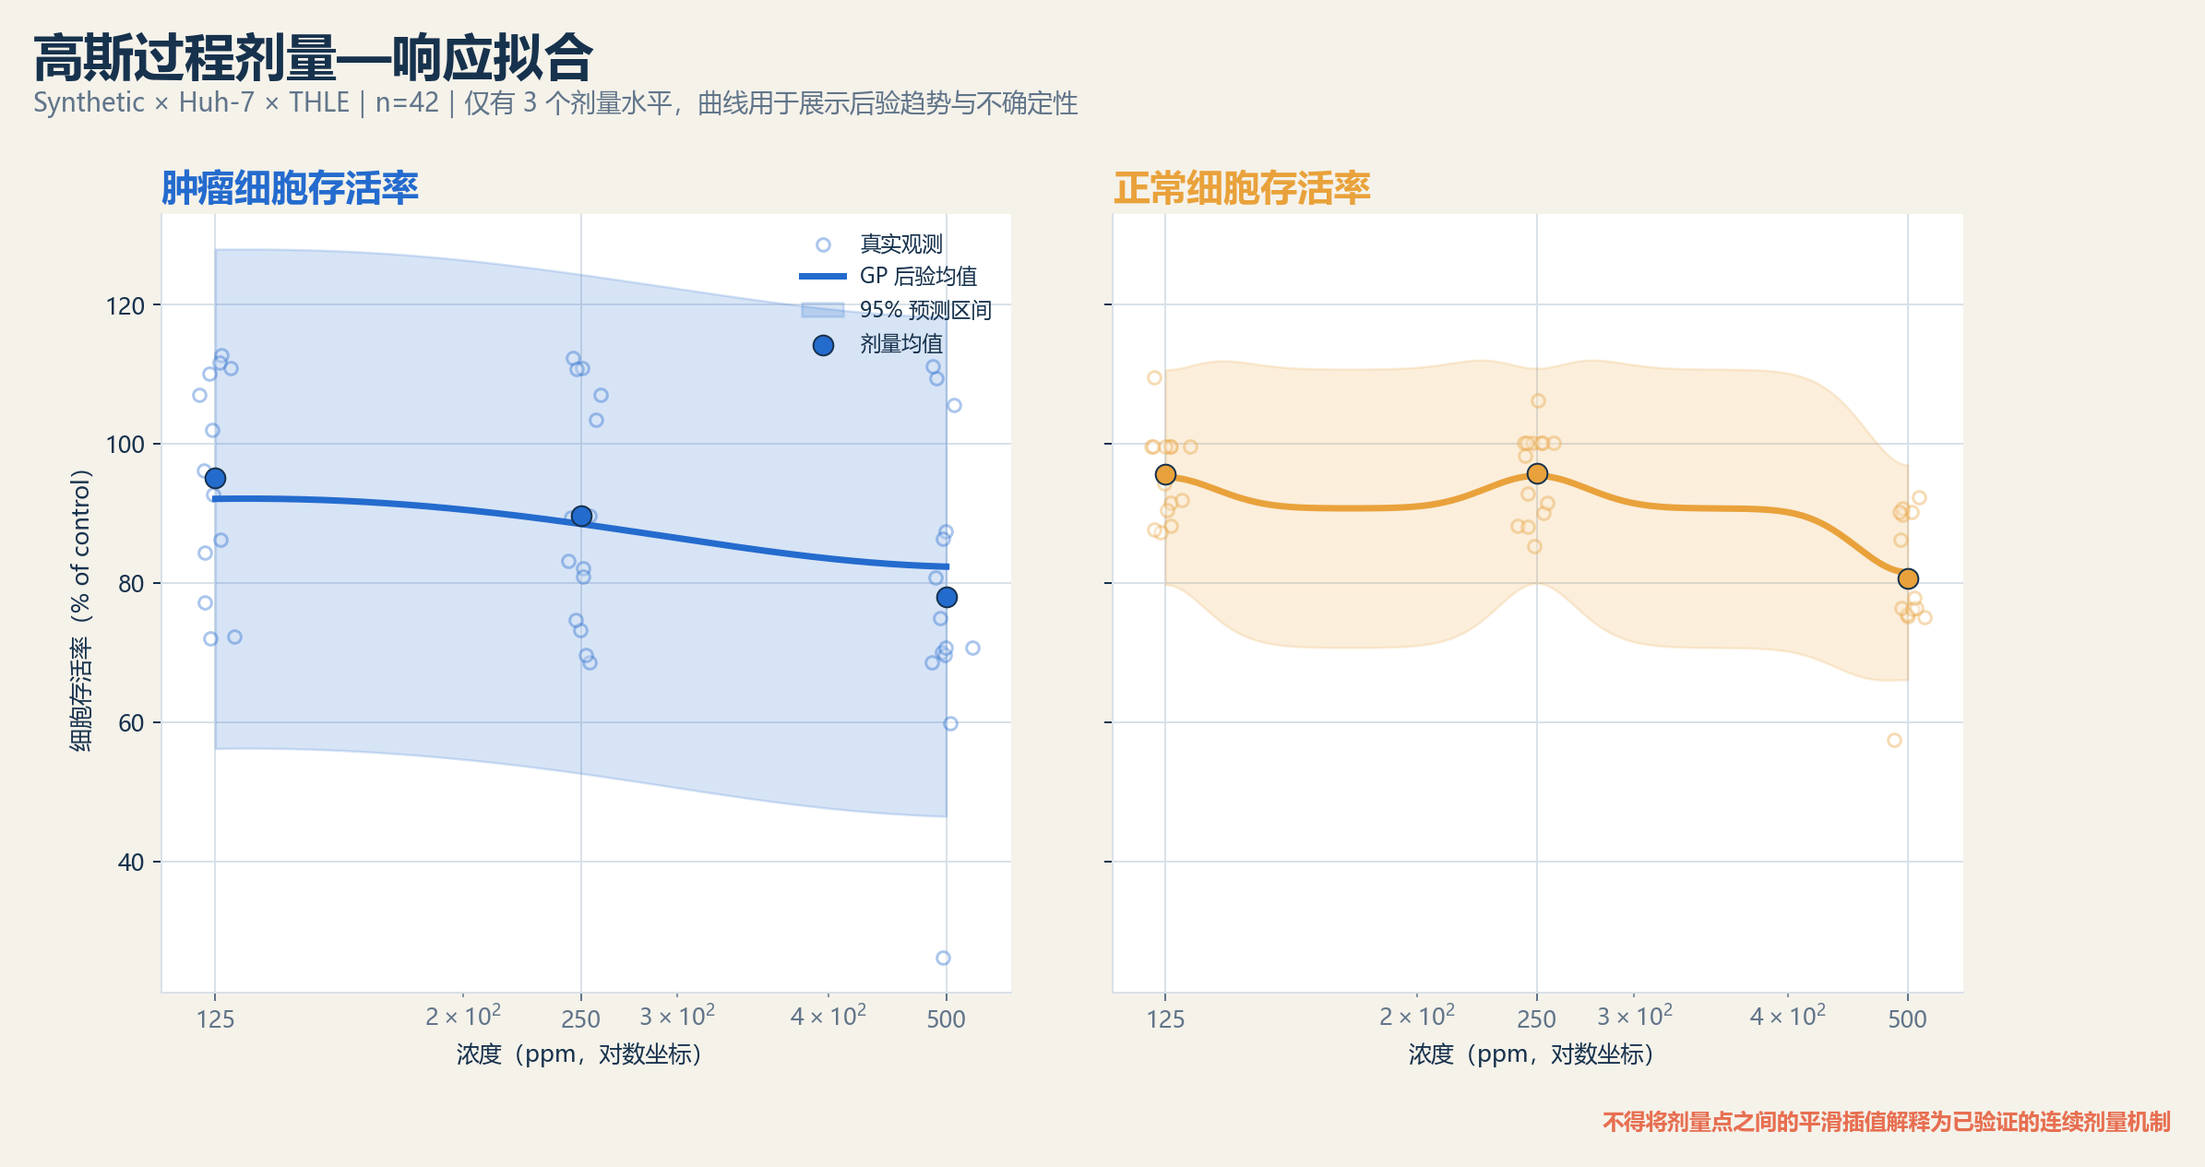
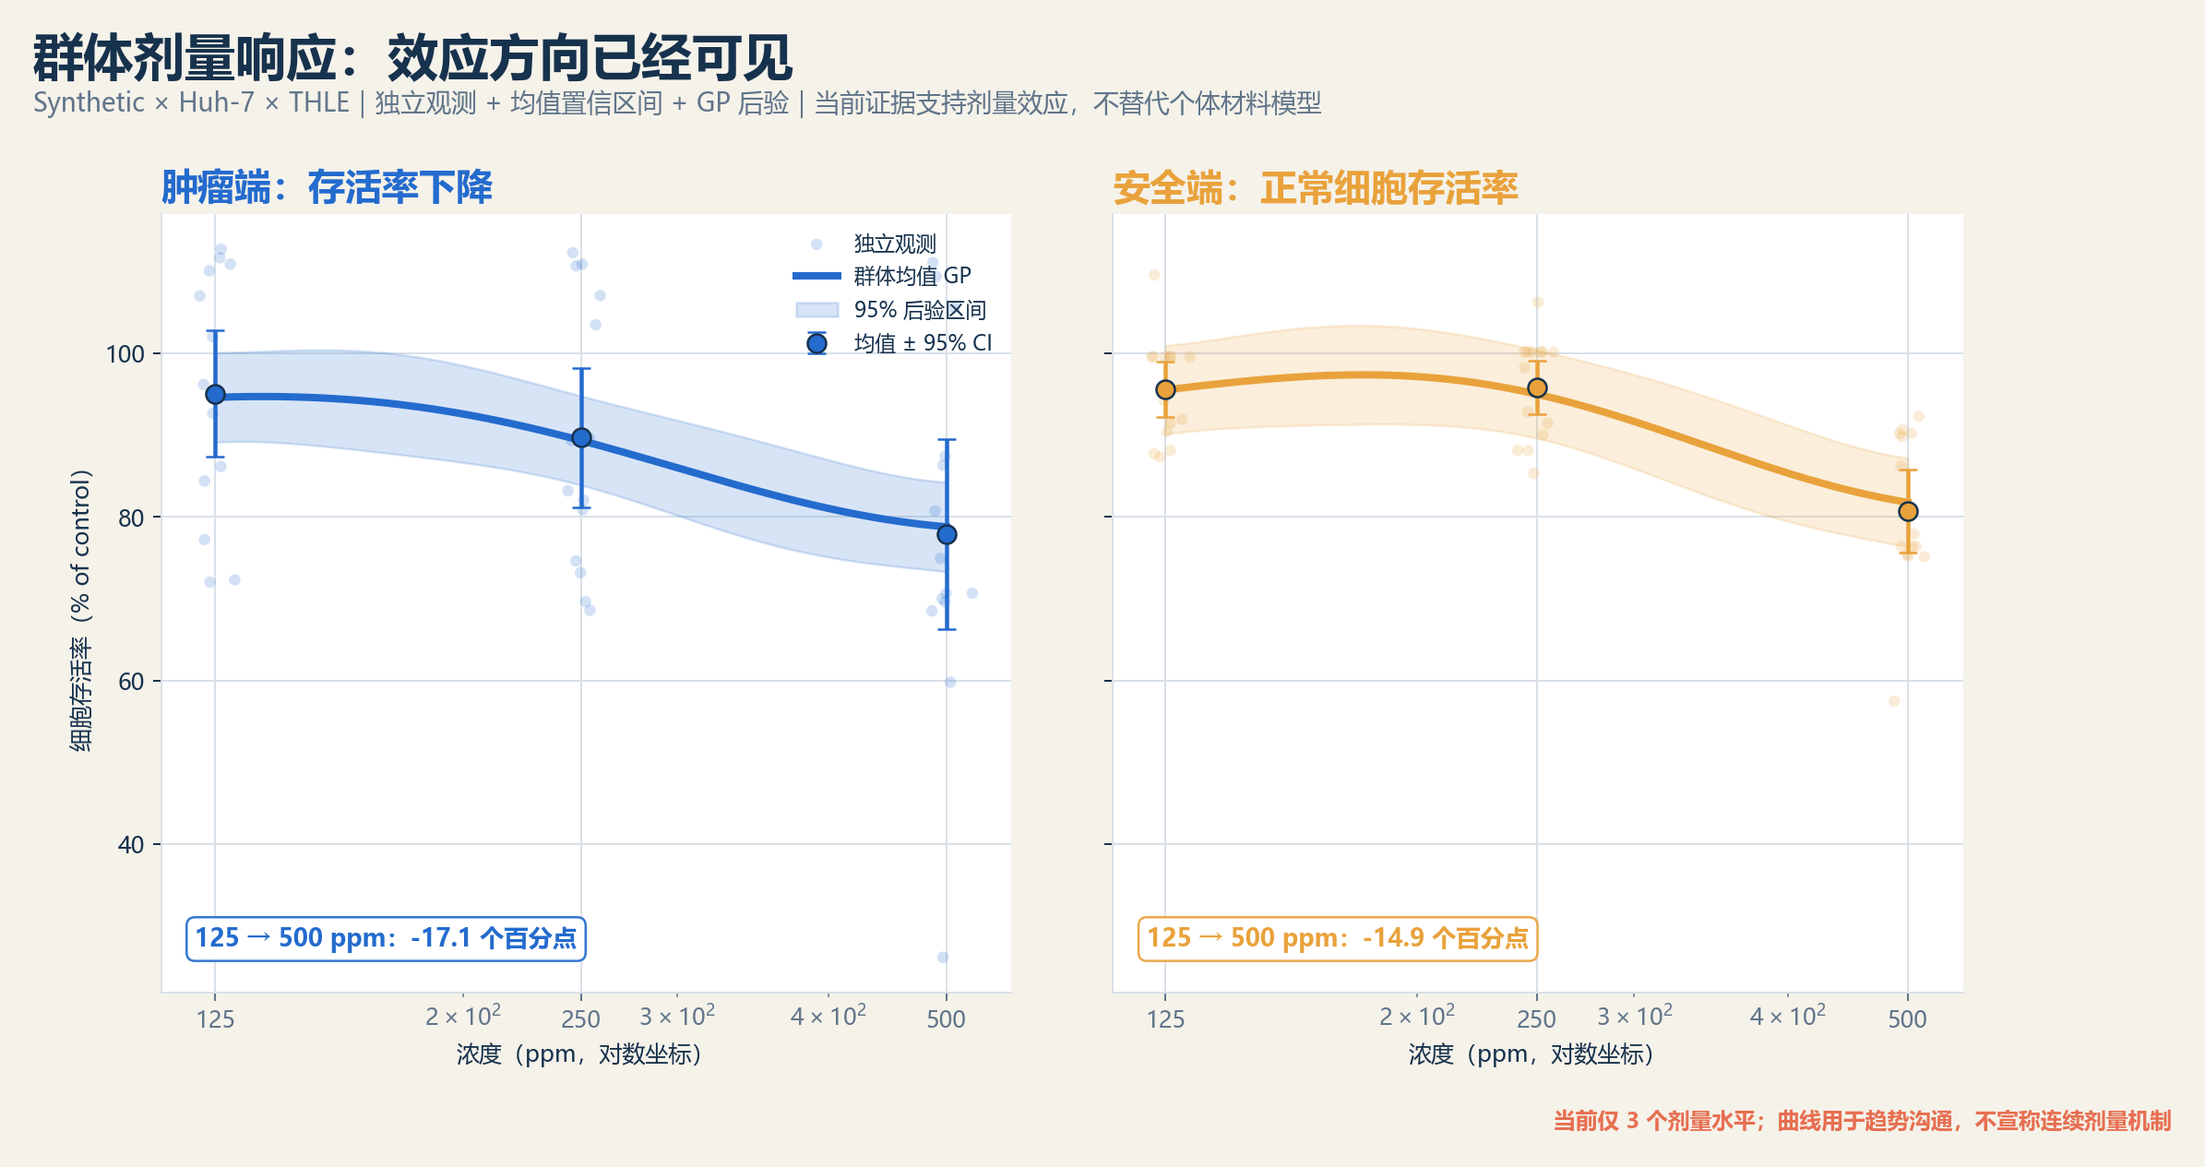
improve GP diagnostics and multi-objective visuals

diff --git a/scripts/generate_figures.py b/scripts/generate_figures.py
@@ -210,17 +210,17 @@ def roadmap() -> None:
     save(fig, "04_capability_roadmap.png")
 
 
-def gp_model(seed: int = 20260726) -> GaussianProcessRegressor:
+def gp_model(length_scale: float = 0.24) -> GaussianProcessRegressor:
     kernel = (
-        ConstantKernel(1.0, (1e-2, 1e3))
-        * RBF(length_scale=0.35, length_scale_bounds=(0.03, 3.0))
-        + WhiteKernel(noise_level=1.0, noise_level_bounds=(1e-3, 1e3))
+        ConstantKernel(1.0, constant_value_bounds="fixed")
+        * RBF(length_scale=length_scale, length_scale_bounds="fixed")
+        + WhiteKernel(noise_level=0.08, noise_level_bounds="fixed")
     )
     return GaussianProcessRegressor(
         kernel=kernel,
         normalize_y=True,
-        n_restarts_optimizer=4,
-        random_state=seed,
+        optimizer=None,
+        random_state=20260726,
     )
 
 
@@ -242,25 +242,56 @@ def gp_scope(connection: sqlite3.Connection) -> pd.DataFrame:
 def gp_dose_response(connection: sqlite3.Connection) -> None:
     frame = gp_scope(connection)
     concentration = pd.to_numeric(frame["concentration_ppm"], errors="coerce").to_numpy(dtype=float)
-    x = np.log10(concentration).reshape(-1, 1)
     grid_concentration = np.geomspace(concentration.min(), concentration.max(), 240)
     grid = np.log10(grid_concentration).reshape(-1, 1)
     targets = [
-        ("y_tumor_viability_pct", "肿瘤细胞存活率", BLUE),
-        ("y_normal_viability_pct", "正常细胞存活率", GOLD),
+        ("y_tumor_viability_pct", "肿瘤端：存活率下降", BLUE),
+        ("y_normal_viability_pct", "安全端：正常细胞存活率", GOLD),
     ]
     fig, axes = plt.subplots(1, 2, figsize=(14, 6.8), sharey=True)
     rng = np.random.default_rng(20260726)
     for ax, (field, label, color) in zip(axes, targets):
         y = pd.to_numeric(frame[field], errors="coerce").to_numpy(dtype=float)
-        model = gp_model().fit(x, y)
+        dose_summary = (
+            frame.assign(_y=y)
+            .groupby("concentration_ppm")["_y"]
+            .agg(["mean", "std", "count"])
+            .reset_index()
+        )
+        dose_summary["sem"] = dose_summary["std"] / np.sqrt(dose_summary["count"])
+        summary_x = np.log10(dose_summary["concentration_ppm"].to_numpy(dtype=float)).reshape(-1, 1)
+        model = gp_model().fit(summary_x, dose_summary["mean"].to_numpy(dtype=float))
         mean, std = model.predict(grid, return_std=True)
         jitter = np.exp(rng.normal(0, 0.018, size=len(concentration)))
-        ax.scatter(concentration * jitter, y, s=30, alpha=0.38, facecolor=PANEL, edgecolor=color, linewidth=1.2, label="真实观测")
-        ax.plot(grid_concentration, mean, color=color, linewidth=2.8, label="GP 后验均值")
-        ax.fill_between(grid_concentration, mean - 1.96 * std, mean + 1.96 * std, color=color, alpha=0.18, label="95% 预测区间")
-        dose_summary = frame.assign(_y=y).groupby("concentration_ppm")["_y"].agg(["mean", "count"]).reset_index()
-        ax.scatter(dose_summary["concentration_ppm"], dose_summary["mean"], s=75, color=color, edgecolor=INK, linewidth=0.8, zorder=4, label="剂量均值")
+        ax.scatter(concentration * jitter, y, s=25, alpha=0.20, color=color, edgecolor="none", label="独立观测")
+        ax.plot(grid_concentration, mean, color=color, linewidth=3.2, label="群体均值 GP")
+        ax.fill_between(grid_concentration, mean - 1.96 * std, mean + 1.96 * std, color=color, alpha=0.18, label="95% 后验区间")
+        ax.errorbar(
+            dose_summary["concentration_ppm"],
+            dose_summary["mean"],
+            yerr=1.96 * dose_summary["sem"],
+            fmt="o",
+            markersize=8,
+            capsize=4,
+            color=color,
+            markeredgecolor=INK,
+            linewidth=1.8,
+            zorder=4,
+            label="均值 ± 95% CI",
+        )
+        start = float(dose_summary.iloc[0]["mean"])
+        end = float(dose_summary.iloc[-1]["mean"])
+        change = end - start
+        ax.text(
+            0.04,
+            0.06,
+            f"125 → 500 ppm：{change:+.1f} 个百分点",
+            transform=ax.transAxes,
+            fontsize=10.5,
+            fontweight="bold",
+            color=color,
+            bbox={"boxstyle": "round,pad=0.35", "facecolor": PANEL, "edgecolor": color, "alpha": 0.92},
+        )
         ax.set_xscale("log")
         ax.set_xticks([125, 250, 500], ["125", "250", "500"])
         ax.set_xlabel("浓度（ppm，对数坐标）")
@@ -270,16 +301,61 @@ def gp_dose_response(connection: sqlite3.Connection) -> None:
         ax.spines[["top", "right"]].set_visible(False)
     axes[0].set_ylabel("细胞存活率（% of control）")
     axes[0].legend(frameon=False, loc="upper right", fontsize=9)
-    fig.suptitle("高斯过程剂量—响应拟合", x=0.07, ha="left", fontsize=22, fontweight="bold")
-    fig.text(0.07, 0.91, "Synthetic × Huh-7 × THLE｜n=42｜仅有 3 个剂量水平，曲线用于展示后验趋势与不确定性", color=MUTED, fontsize=11)
-    fig.text(0.99, 0.01, "不得将剂量点之间的平滑插值解释为已验证的连续剂量机制", ha="right", color=ORANGE, fontsize=9.5, fontweight="bold")
+    fig.suptitle("群体剂量响应：效应方向已经可见", x=0.07, ha="left", fontsize=22, fontweight="bold")
+    fig.text(0.07, 0.91, "Synthetic × Huh-7 × THLE｜独立观测 + 均值置信区间 + GP 后验｜当前证据支持剂量效应，不替代个体材料模型", color=MUTED, fontsize=11)
+    fig.text(0.99, 0.01, "当前仅 3 个剂量水平；曲线用于趋势沟通，不宣称连续剂量机制", ha="right", color=ORANGE, fontsize=9.5, fontweight="bold")
     fig.subplots_adjust(top=0.82, bottom=0.13, wspace=0.12)
     save(fig, "05_gp_dose_response.png")
 
 
+def anchored_gp_predictions(
+    frame: pd.DataFrame,
+    field: str,
+    group_field: str,
+) -> tuple[pd.DataFrame, dict[str, float]]:
+    columns = ["concentration_ppm", field, group_field, "experiment_id"]
+    evaluation = frame[columns].dropna(subset=[field]).copy()
+    fallback = evaluation["experiment_id"].astype(str)
+    evaluation["_group"] = evaluation[group_field].where(evaluation[group_field].notna(), fallback).astype(str)
+    anchors = (
+        evaluation[evaluation["concentration_ppm"].eq(125)]
+        .groupby("_group")[field]
+        .mean()
+    )
+    evaluation["_anchor"] = evaluation["_group"].map(anchors)
+    evaluation = evaluation[
+        evaluation["concentration_ppm"].gt(125) & evaluation["_anchor"].notna()
+    ].copy()
+    evaluation["_delta"] = evaluation[field] - evaluation["_anchor"]
+    x = np.log10(evaluation["concentration_ppm"].to_numpy(dtype=float)).reshape(-1, 1)
+    y_delta = evaluation["_delta"].to_numpy(dtype=float)
+    groups = evaluation["_group"].to_numpy()
+    predicted_delta = np.full(len(evaluation), np.nan)
+    splitter = GroupKFold(n_splits=min(5, len(np.unique(groups))))
+    for train, test in splitter.split(x, y_delta, groups):
+        predicted_delta[test] = gp_model(length_scale=0.20).fit(x[train], y_delta[train]).predict(x[test])
+    evaluation["_prediction"] = evaluation["_anchor"] + predicted_delta
+    observed = evaluation[field].to_numpy(dtype=float)
+    predicted = evaluation["_prediction"].to_numpy(dtype=float)
+    carry = evaluation["_anchor"].to_numpy(dtype=float)
+    mae = float(mean_absolute_error(observed, predicted))
+    rmse = float(mean_squared_error(observed, predicted) ** 0.5)
+    rho = float(spearmanr(observed, predicted).statistic)
+    carry_mae = float(mean_absolute_error(observed, carry))
+    improvement = 100.0 * (carry_mae - mae) / carry_mae if carry_mae else 0.0
+    return evaluation, {
+        "mae": mae,
+        "rmse": rmse,
+        "spearman": rho,
+        "anchor_carry_mae": carry_mae,
+        "mae_improvement_pct": improvement,
+        "rows": float(len(evaluation)),
+        "groups": float(len(np.unique(groups))),
+    }
+
+
 def gp_cross_validation(connection: sqlite3.Connection) -> None:
     frame = gp_scope(connection)
-    x = np.log10(pd.to_numeric(frame["concentration_ppm"], errors="coerce").to_numpy(dtype=float)).reshape(-1, 1)
     specifications = [
         ("y_tumor_viability_pct", "肿瘤细胞存活率", "material_parent_id", BLUE),
         ("y_normal_viability_pct", "正常细胞存活率", "normal_measurement_group_id", GOLD),
@@ -287,20 +363,19 @@ def gp_cross_validation(connection: sqlite3.Connection) -> None:
     fig, axes = plt.subplots(1, 2, figsize=(13.5, 6.8))
     metric_rows = []
     for ax, (field, label, group_field, color) in zip(axes, specifications):
-        y = pd.to_numeric(frame[field], errors="coerce").to_numpy(dtype=float)
-        fallback = frame["experiment_id"].astype(str)
-        groups = frame[group_field].where(frame[group_field].notna(), fallback).astype(str).to_numpy()
-        splitter = GroupKFold(n_splits=min(5, len(np.unique(groups))))
-        predicted = np.full(len(frame), np.nan)
-        for train, test in splitter.split(x, y, groups):
-            predicted[test] = gp_model(seed=20260726 + len(test)).fit(x[train], y[train]).predict(x[test])
-        mae = float(mean_absolute_error(y, predicted))
-        rmse = float(mean_squared_error(y, predicted) ** 0.5)
-        rho = float(spearmanr(y, predicted).statistic)
-        metric_rows.append({"target": field, "group_field": group_field, "mae": mae, "rmse": rmse, "spearman": rho, "rows": len(frame)})
-        lower = min(y.min(), predicted.min()) - 5
-        upper = max(y.max(), predicted.max()) + 5
-        ax.scatter(y, predicted, s=46, alpha=0.62, color=color, edgecolor=PANEL, linewidth=0.7)
+        evaluation, metrics = anchored_gp_predictions(frame, field, group_field)
+        y = evaluation[field].to_numpy(dtype=float)
+        predicted = evaluation["_prediction"].to_numpy(dtype=float)
+        metric_rows.append({
+            "target": field,
+            "evaluation_regime": "125ppm_anchor_predict_250_500ppm",
+            "group_field": group_field,
+            **metrics,
+        })
+        lower = min(y.min(), predicted.min()) - 4
+        upper = max(y.max(), predicted.max()) + 4
+        dose_colors = evaluation["concentration_ppm"].map({250: color, 500: ORANGE})
+        ax.scatter(y, predicted, s=52, alpha=0.70, color=dose_colors, edgecolor=PANEL, linewidth=0.8)
         ax.plot([lower, upper], [lower, upper], color=INK, linestyle="--", linewidth=1.5, label="理想预测")
         ax.set_xlim(lower, upper)
         ax.set_ylim(lower, upper)
@@ -308,16 +383,105 @@ def gp_cross_validation(connection: sqlite3.Connection) -> None:
         ax.set_xlabel("实测存活率（%）")
         ax.set_ylabel("交叉验证预测（%）")
         ax.set_title(label, loc="left", fontsize=16, fontweight="bold", color=color)
-        ax.text(0.04, 0.95, f"MAE {mae:.1f}｜RMSE {rmse:.1f}\nSpearman {rho:.2f}", transform=ax.transAxes, va="top", fontsize=10.5, fontweight="bold")
+        improvement = metrics["mae_improvement_pct"]
+        ax.text(
+            0.04,
+            0.95,
+            f"MAE {metrics['mae']:.1f}｜RMSE {metrics['rmse']:.1f}\n"
+            f"Spearman {metrics['spearman']:.2f}｜较锚点直推 {improvement:+.0f}%",
+            transform=ax.transAxes,
+            va="top",
+            fontsize=10.2,
+            fontweight="bold",
+        )
+        ax.text(0.96, 0.06, "● 250 ppm   ● 500 ppm", transform=ax.transAxes, ha="right", color=MUTED, fontsize=9)
         ax.grid(color=GRID, linewidth=0.8)
         ax.set_axisbelow(True)
         ax.spines[["top", "right"]].set_visible(False)
     pd.DataFrame(metric_rows).to_sql("gp_visualization_metrics", connection, if_exists="replace", index=False)
-    fig.suptitle("高斯过程分组交叉验证", x=0.07, ha="left", fontsize=22, fontweight="bold")
-    fig.text(0.07, 0.91, "仅使用浓度作为输入｜肿瘤按材料父级分组｜正常细胞按共享安全测量组分组", color=MUTED, fontsize=11)
-    fig.text(0.99, 0.01, "这是剂量基线，不是完整的工艺—表征—生物模型", ha="right", color=ORANGE, fontsize=9.5, fontweight="bold")
+    fig.suptitle("低剂量锚定 GP：让一次筛选支持后续剂量决策", x=0.07, ha="left", fontsize=22, fontweight="bold")
+    fig.text(0.07, 0.91, "125 ppm 实测作为材料响应锚点｜按材料/共享测量组交叉验证｜预测 250 与 500 ppm", color=MUTED, fontsize=11)
+    fig.text(0.99, 0.01, "适用于已完成低剂量筛选的材料；新材料冷启动仍需组成、工艺与表征特征", ha="right", color=ORANGE, fontsize=9.5, fontweight="bold")
     fig.subplots_adjust(top=0.82, bottom=0.13, wspace=0.24)
     save(fig, "06_gp_cross_validation.png")
+
+
+def multiobjective_landscape(connection: sqlite3.Connection) -> None:
+    frame = gp_scope(connection).copy()
+    frame["tumor_kill_pct"] = 100.0 - pd.to_numeric(frame["y_tumor_viability_pct"], errors="coerce")
+    frame["normal_safety_pct"] = pd.to_numeric(frame["y_normal_viability_pct"], errors="coerce")
+    frame = frame.dropna(subset=["tumor_kill_pct", "normal_safety_pct"])
+    x = frame["tumor_kill_pct"].to_numpy(dtype=float)
+    y = frame["normal_safety_pct"].to_numpy(dtype=float)
+    efficient = np.ones(len(frame), dtype=bool)
+    for index in range(len(frame)):
+        dominates = (x >= x[index]) & (y >= y[index]) & ((x > x[index]) | (y > y[index]))
+        if dominates.any():
+            efficient[index] = False
+    frontier = frame.loc[efficient].sort_values("tumor_kill_pct")
+    frame["decision_score"] = frame["tumor_kill_pct"] + frame["normal_safety_pct"]
+    leaders = frame.nlargest(min(3, len(frame)), "decision_score").copy()
+    leaders["candidate_label"] = [f"候选 {letter}" for letter in "ABC"[:len(leaders)]]
+    leaders[
+        [
+            "candidate_label",
+            "experiment_id",
+            "material_parent_id",
+            "concentration_ppm",
+            "tumor_kill_pct",
+            "normal_safety_pct",
+            "decision_score",
+        ]
+    ].to_sql("multiobjective_observed_candidates", connection, if_exists="replace", index=False)
+
+    fig, ax = plt.subplots(figsize=(12.5, 7.2))
+    x_min = min(-18.0, float(x.min()) - 5)
+    x_max = max(55.0, float(x.max()) + 5)
+    y_min = min(45.0, float(y.min()) - 5)
+    y_max = max(115.0, float(y.max()) + 5)
+    ax.axvspan(20, x_max, ymin=max(0, (80 - y_min) / (y_max - y_min)), color=CYAN, alpha=0.10)
+    ax.text(x_max - 2, y_max - 3, "目标区域\n杀伤 ≥20%｜安全 ≥80%", ha="right", va="top", color=CYAN, fontsize=11, fontweight="bold")
+    dose_styles = [(125, MUTED, 44), (250, GOLD, 58), (500, ORANGE, 72)]
+    for dose, color, size in dose_styles:
+        subset = frame[frame["concentration_ppm"].eq(dose)]
+        ax.scatter(
+            subset["tumor_kill_pct"],
+            subset["normal_safety_pct"],
+            s=size,
+            color=color,
+            alpha=0.62,
+            edgecolor=PANEL,
+            linewidth=0.8,
+            label=f"{dose} ppm",
+        )
+    if len(frontier) > 1:
+        ax.plot(frontier["tumor_kill_pct"], frontier["normal_safety_pct"], color=CYAN, linewidth=2.5, linestyle="--", label="观测 Pareto 前沿")
+        ax.scatter(frontier["tumor_kill_pct"], frontier["normal_safety_pct"], s=105, facecolor="none", edgecolor=CYAN, linewidth=2)
+    for _, row in leaders.iterrows():
+        ax.annotate(
+            row["candidate_label"],
+            (row["tumor_kill_pct"], row["normal_safety_pct"]),
+            xytext=(8, 8),
+            textcoords="offset points",
+            color=INK,
+            fontsize=9.5,
+            fontweight="bold",
+        )
+    ax.axvline(20, color=CYAN, linewidth=1.1, alpha=0.55)
+    ax.axhline(80, color=CYAN, linewidth=1.1, alpha=0.55)
+    ax.set_xlim(x_min, x_max)
+    ax.set_ylim(y_min, y_max)
+    ax.set_xlabel("肿瘤细胞杀伤率（100 - 存活率，%）")
+    ax.set_ylabel("正常细胞存活率（%）")
+    ax.grid(color=GRID, linewidth=0.8)
+    ax.set_axisbelow(True)
+    ax.spines[["top", "right"]].set_visible(False)
+    ax.legend(frameon=False, loc="lower left", ncol=2)
+    fig.suptitle("双目标决策地图：在杀伤与安全之间寻找 Pareto 候选", x=0.08, ha="left", fontsize=22, fontweight="bold")
+    fig.text(0.08, 0.91, "每个点为一条完整配对观测｜右上越优｜候选 A–C 仅按当前双目标证据标记", color=MUTED, fontsize=11)
+    fig.text(0.99, 0.01, "这是观测证据前沿，不是虚拟候选预测；下一阶段由多目标 BO 在可制造空间内扩展", ha="right", color=ORANGE, fontsize=9.5, fontweight="bold")
+    fig.subplots_adjust(top=0.82, bottom=0.13, left=0.11, right=0.96)
+    save(fig, "07_multiobjective_landscape.png")
 
 
 def main() -> None:
@@ -330,6 +494,7 @@ def main() -> None:
         baseline_validation(connection)
         gp_dose_response(connection)
         gp_cross_validation(connection)
+        multiobjective_landscape(connection)
     roadmap()
     print({"status": "ok", "figures": sorted(path.name for path in OUTPUT.glob("*.png"))})
 

diff --git a/docs/PITCH_BRIEF.md b/docs/PITCH_BRIEF.md
@@ -56,4 +56,12 @@
 
 ![高斯过程剂量响应](assets/05_gp_dose_response.png)
 
-![高斯过程分组交叉验证](assets/06_gp_cross_validation.png)
+讲解口径：当前三档剂量已经显示出可沟通的群体趋势；阴影是均值趋势的不确定性，而不是对每个新材料的精确保证。
+
+![低剂量锚定 GP 交叉验证](assets/06_gp_cross_validation.png)
+
+讲解口径：完全未知材料仅靠浓度无法区分，不能硬做高精度预测。更合理的近期落地方案是先做一次 125 ppm 低成本筛选，把该响应作为材料锚点，再预测 250/500 ppm，减少后续实验组合。
+
+![双目标 Pareto 决策地图](assets/07_multiobjective_landscape.png)
+
+讲解口径：平台不是只追求更强杀伤，而是在肿瘤杀伤和正常细胞安全之间寻找 Pareto 候选。当前前沿来自真实配对观测；补齐 Mg/Si、合成温度、压力、球磨与表征字段后，多目标 BO 将从“筛选已有材料”升级为“反向推荐可制造工艺”。

diff --git a/README.md b/README.md
@@ -62,6 +62,10 @@ python -m pip install -e ".[test]"
 
 ![高斯过程剂量响应](docs/assets/05_gp_dose_response.png)
 
+![低剂量锚定 GP 交叉验证](docs/assets/06_gp_cross_validation.png)
+
+![双目标 Pareto 决策地图](docs/assets/07_multiobjective_landscape.png)
+
 更多汇报图和讲解口径见 `docs/PITCH_BRIEF.md`。图表由以下命令从本地 SQLite 聚合生成，不包含原始实验明细：
 
 ```powershell
